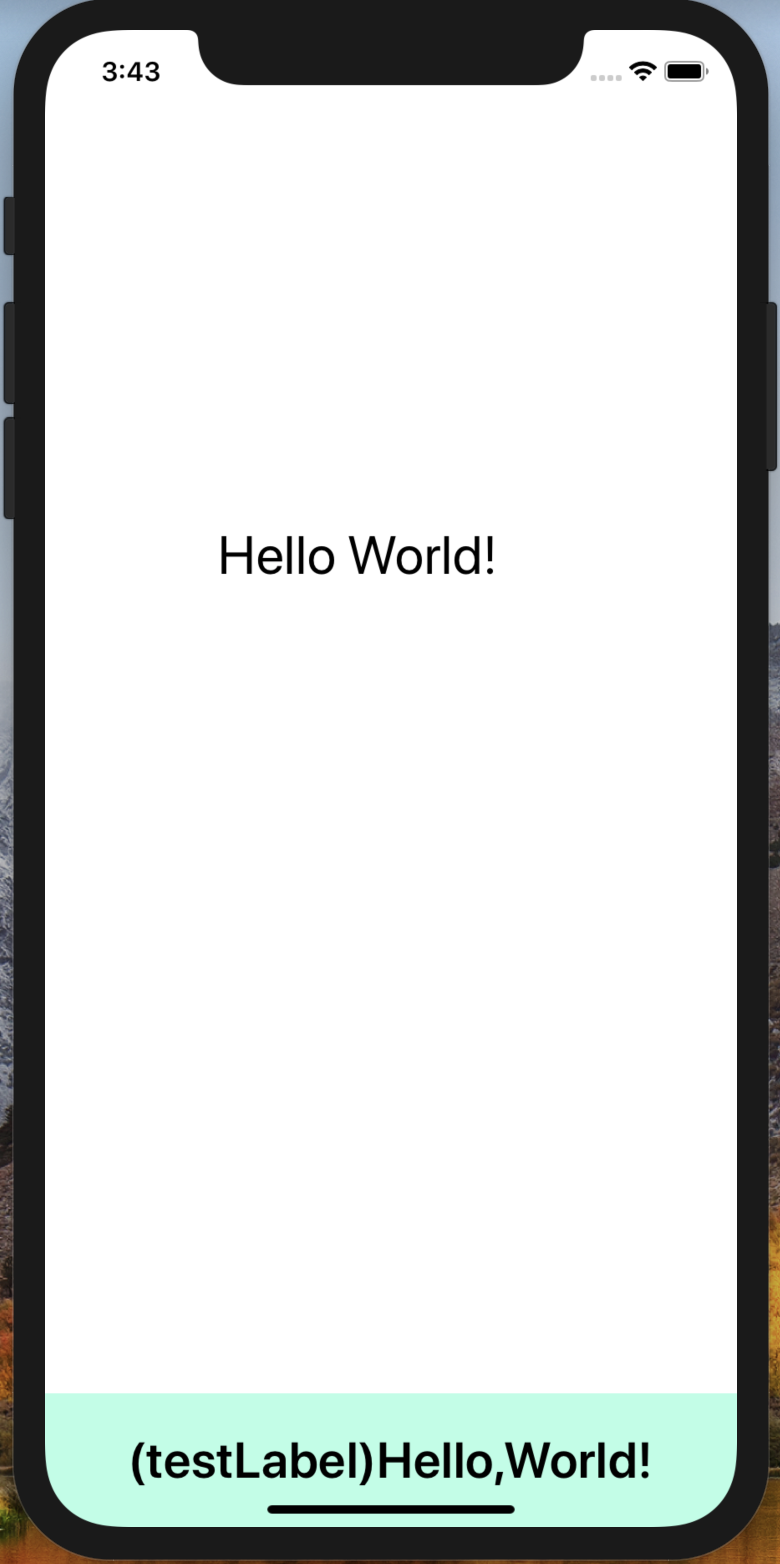
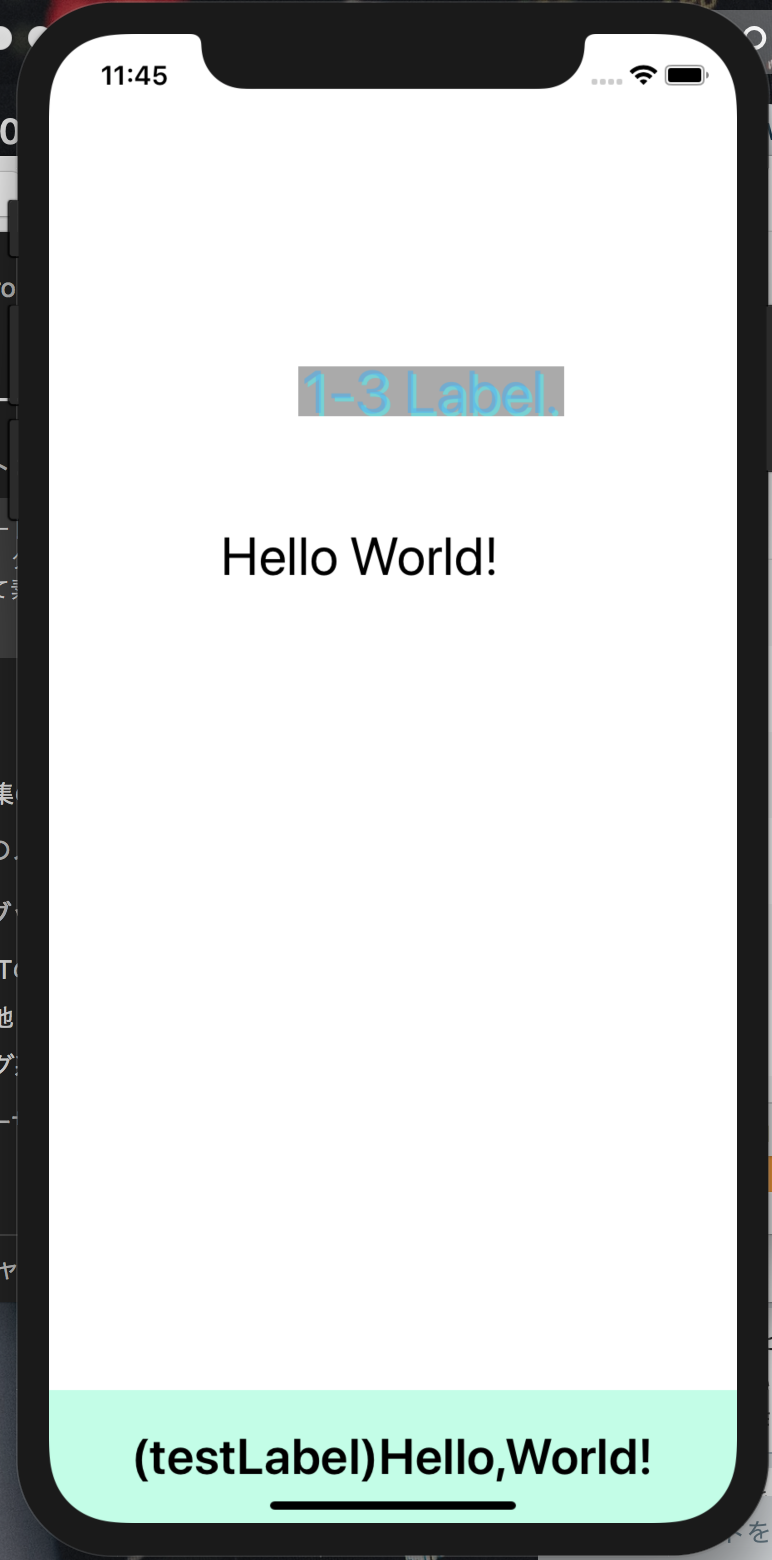
[iPhone] Stroyboardを使わずUILabel 位置、サイズ、font、背景色などを設定

diff --git a/HandsOn/HandsOn/ViewController.swift b/HandsOn/HandsOn/ViewController.swift
@@ -20,6 +20,26 @@ class ViewController: UIViewController {
         setLabel()
         
         label.text = "Hello World!"
+        
+        //StoryBoardを使わずにLabelを実装する場合
+        let label13 = UILabel()
+        label13.frame = CGRect(x:150, y:200, width:160, height:30)
+        label13.text = "1-3 Label."
+        
+        //テキストの色を設定
+        label13.textColor = UIColor(red: 0.1, green: 0.7, blue: 1.0, alpha: 0.5)
+        //システムフォントをサイズ36に設定
+        label13.font = UIFont.systemFont(ofSize: 36)
+        //テキストを中央寄せ
+        label13.textAlignment = NSTextAlignment.center
+        //テキストの影、色とオフセット
+        label13.shadowColor = UIColor.cyan
+        label13.shadowOffset = CGSize(width: 2, height: 2)
+        //ラベルの背景色、ライトグレー
+        label13.backgroundColor = UIColor.lightGray
+        
+        
+        self.view.addSubview(label13)
     }
 
     //回転を検知
